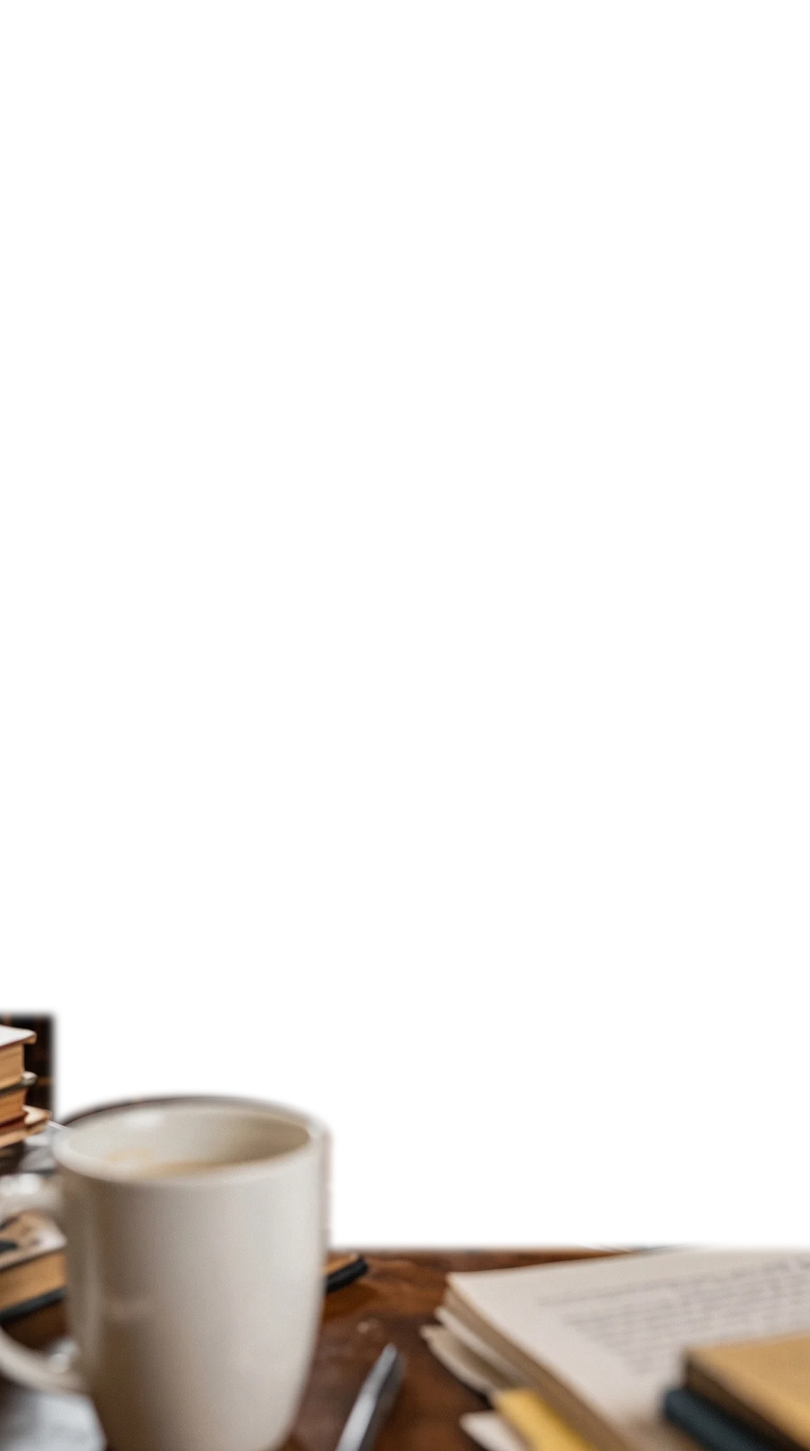
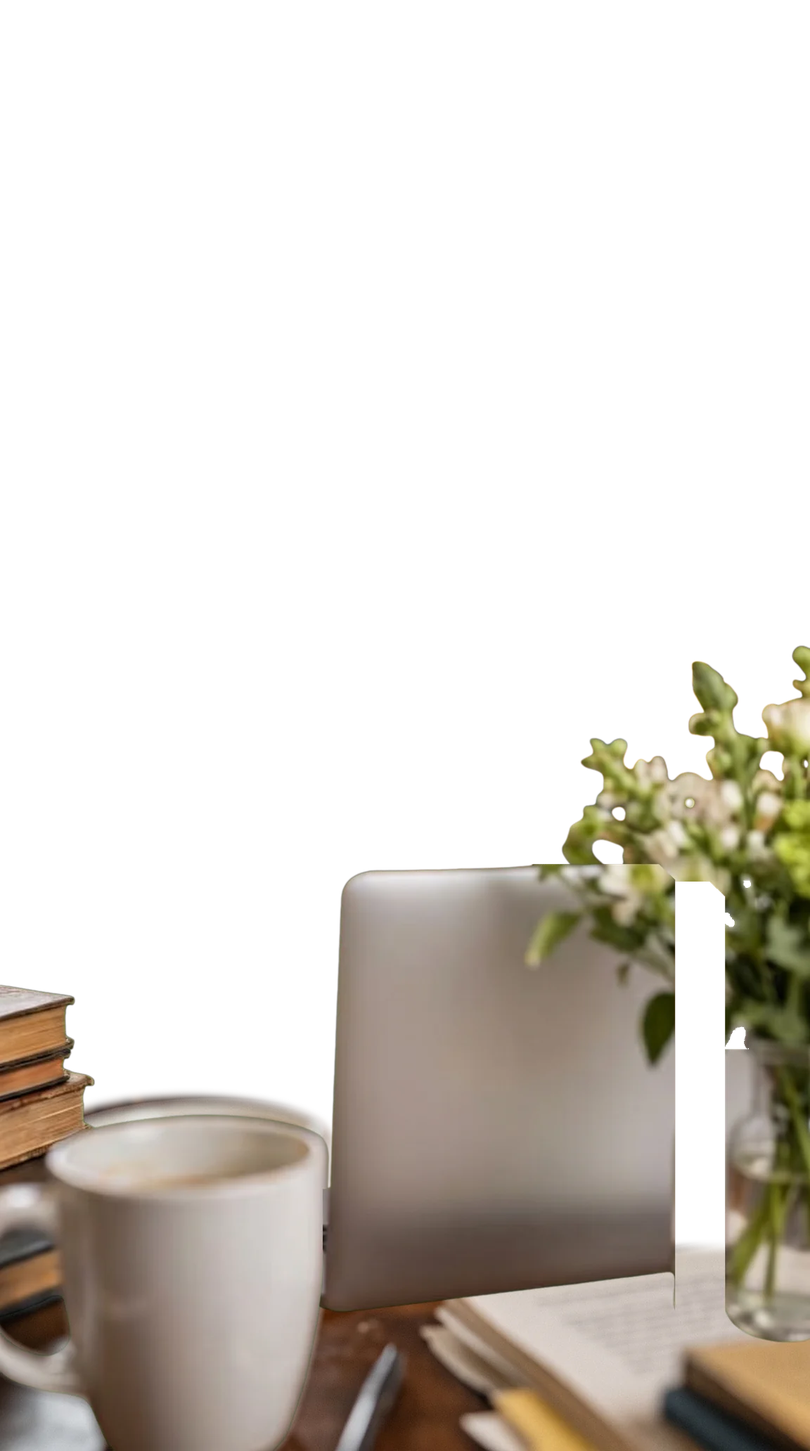
Ortam: önde dizüstü bilgisayar, çiçek ve kitaplar (gövde birleşme çizgisini örter)
Claude-Session: https://claude.ai/code/session_01VDWY4KKCKWwibUPrRpQSyT

Changed region(s): [[0.0, 0.4341, 1.0, 0.9302], [0.0938, 0.9612, 0.125, 0.9922], [0.0625, 0.9302, 0.0938, 0.9612]]

diff --git a/konuskan/goruntulu.js b/konuskan/goruntulu.js
@@ -580,7 +580,7 @@ ${ipucu ? `Context — the teacher had just said: "${ipucu}"\n` : ''}Return ONLY
        (Deniz taban fotoğrafında göz ortası kutunun %53,5/%40,8'inde, göz arası genişliğin %20,57'si).
        Katman kapları canvas'la aynı yerde/boyutta durur ve kamera kıpırtısı (vdKamera) animasyonu canvas'ınkine eşitlenir. */
     const ORTAM = {
-      'g-kutuphane': { yol: './assets/ortam/kutuphane/', W: 1536, H: 2752, goz: { x: 787.5, y: 1202, d: 205 },
+      'g-kutuphane': { yol: './assets/ortam/kutuphane/', v: 3, W: 1536, H: 2752, goz: { x: 787.5, y: 1202, d: 205 },
         lamba: [[249, 1080, 150], [1296, 1155, 170]], pencere: [0, 120, 470, 1330], video: [2.1, 12.8, 1531.9, 2723.4], buhar: { r: [2.1, 12.8, 1021.3, 2085], n: 128, kol: 16, w: 180, h: 368, fps: 15 } }
     };
     const TABAN_GOZ = { x: .535, y: .408, d: .2057 };
@@ -634,8 +634,8 @@ ${ipucu ? `Context — the teacher had just said: "${ipucu}"\n` : ''}Return ONLY
           };
           img.src = o.yol + 'buhar.jpg';
         } else bv.hidden = true;
-        ark.querySelector('.vd-ortam-govde').src = o.yol + 'govde.webp';
-        on.querySelector('.vd-ortam-onplan').src = o.yol + 'onplan.webp';
+        ark.querySelector('.vd-ortam-govde').src = o.yol + 'govde.webp?v=' + (o.v || 1);
+        on.querySelector('.vd-ortam-onplan').src = o.yol + 'onplan.webp?v=' + (o.v || 1);
         const p = o.pencere, pe = ark.querySelector('.vd-ortam-pencere');
         Object.assign(pe.style, { left: yuzde(p[0], o.W), top: yuzde(p[1], o.H), width: yuzde(p[2] - p[0], o.W), height: yuzde(p[3] - p[1], o.H) });
         ark.querySelector('.vd-ortam-tozlar').innerHTML = Array.from({ length: 9 }, (_, i) =>

diff --git a/sw.js b/sw.js
@@ -13,8 +13,8 @@
       indirilip bir sonraki açılışta devreye girer.
    4) Bildirim tıklama / push davranışı v3 ile aynı.
 */
-var SW_VERSION = "dh-sw-v656";  /* Ortam buharı video yerine kare tabakası (tuvale 15 fps): telefonda ikinci video kod çözücüsü takılıp buharı donduruyordu */
-/* onceki v655: ortam v2 */
+var SW_VERSION = "dh-sw-v657";  /* Ortam ön planı: dizüstü bilgisayar + çiçek + kitaplar (birleşme çizgisini örter) */
+/* onceki v656: buhar kare tabakası */
 /* onceki v592: 🏠 Ana sayfa Deniz'in planını gösterir; eski koç ikinci AI planı yapmaz (geri dönüş: dh-ana-plan=eski) */
 /* onceki v591: 🧭 Deniz müfredatta ilerletir */
 /* onceki v590: 🧩 Kalan ekranların cevapları Deniz'e: akıllı tekrar, YouTube, İngilizceyi Yaşa, sesli çalış, ders, sınavlar, öbek fiil, telaffuz */

diff --git a/konuskan.html b/konuskan.html
@@ -59,7 +59,7 @@
 <script src="./konuskan/google-asistan.js?v=4"></script>
 <script src="./konuskan/dh-piper.js?v=6"></script>
 <script src="./dh-ders-defteri.js?v=4"></script>
-<script src="./konuskan/goruntulu.js?v=106"></script>
+<script src="./konuskan/goruntulu.js?v=107"></script>
 <script src="./word-popup.js?v=tm3"></script>
 <script src="product-improvements.js?v=2"></script>
 </body>

diff --git a/CLAUDE.md b/CLAUDE.md
@@ -92,4 +92,4 @@ Her oturumun sonunda bu iki dosyayı güncel tut (sürüm numaraları, yapılanl
 - Android'de tarayıcı sesi perde/hız 1 değilse dil geçişlerinde 2–6 sn bekliyor; perde ve hız 1'de sabit.
 
 ## Şu anki sürümler (24 Kasım 2026)
-sw `dh-sw-v656` (buhar artık buhar.jpg kare tabakası 16x8=128 kare 180x368, tuvale setInterval 15 fps, plaka bölgesi [2.1,12.8,1021.3,2085]; telefonda buhar videosu donuyordu — muhtemelen kod çözücü sınırı) · v655 (ortam v2: goruntulu v105/css v48 — telefonda (max-aspect-ratio 4/5, sohbet kapalı) .vd-yuz plakaya göre yerleşir: left 16.56vw, top min(0, 100dvh-170px-179.17vw)+51.78vw, genişlik 64.88vw (kamera geride, masa+fincan görünür); buhar.mp4 = ilk Veo videosundan plakayla fark (siyah zemin) ayrı kap .vd-ortam-buhar mix-blend screen, Deniz'in ÖNÜNDE; ışık .vd-ortam-isikkap soft-light (karışım modu kapta, yoksa yalıtılır); gövde katmanı artık kutunun yalnız alt %7'sinde + kutu dışında (yaka/eller canvas'ta kalır)) · v654 (GERÇEK ORTAM: goruntulu.js v104 + css v47, Arka plan listesinde '✨ Kütüphane (gerçek ortam)' = fon 'g-kutuphane'; ORTAM tablosu {yol, W,H plaka pikseli, goz {x,y,d} sahnedeki adamın göz ortası ve göz arası, lamba, pencere, video [x,y,g,y]}; TABAN_GOZ {x:.535,y:.408,d:.2057} taban fotoğrafta; katmanlar: .vd-ortam-dolgu (bulanık) → .vd-ortam-ark (plaka.jpg + plaka.mp4 Veo döngü + pencere/toz/lamba CSS + govde.webp) → canvas → .vd-ortam-on (onplan.webp + soft-light ışık); kaplar canvas offset/transform'unu kopyalar, vdKamera animasyon zamanı canvas'la eşitlenir (250 ms); assets/ortam/kutuphane/; üretim: Gemini'de deniz-gri.png → 'aynı adam kütüphanede' → 'adamı kaldır' (plaka) → Veo dikey 9:16 (buharsız!), video plakada (2,13) 1532x2723; gövde maskesi rembg u2net_human_seg × kutu %70–80 rampa; ön plan elle çokgen; döngü son 36 kare çapraz geçiş; çalışma dosyaları qtest/ortam ve kullanıcının Downloads/dh-avatar/ortam) · v653 (ODAK MODU: dh-odak.js v1, auth-guard v20 her korumalı sayfaya ekler ve localStorage dh-odak-v1="1" ise html.dh-odak + gizleme stilini İLK ÇİZİMDEN önce koyar; gizlenen: .kk-alt/.kk-ust-menu/.kk-bosluk/.dh-primary-nav/.dh-app-nav/.dh-mobile-menu*/atlas süsleri; sol kenarda .dh-odak-tut ⛶ tutamaç → pano: Ana Sayfa / Menü ([data-kk-menu].click()) / Geri / Odak modundan çık; aç/kapat sayfayı yeniler (kk kaydırma düzgün kalsın); yüklü değilse ilk dokunuşta requestFullscreen (her sayfa geçişinde tarayıcı tam ekranı kapanır); kolay-kullanim v30: ODAK'ta çubuk yüksekliği 0, menü 'Görünüm'de data-kk-odak öğesi; teacher tam ekran exitFullscreen'i yalnız kendi açtıysa yapar (__tTamFsBiz); manifest bütün HTML'lere bağlandı, display standalone) · v652 (DERS DEFTERİ BULUTTA: dh-ders-defteri.js v4 → DHCloudSync.defter (cloud-sync v56: loadKoleksiyonSonra where guncel>son) users/{uid}/ders_defteri/{id}; değişiklik 4 sn sonra yazılır (bekleyen dh-defter-bekleyen-v1), açılışta artımlı çekiş (dh-defter-cek-v1), ilk açılışta bütün yerel defterler gönderilir (dh-defter-ilk-v1); SİLME artık var: DHDefter.sil → yerel + {silindi:true} işareti (dh-defter-silinen-v1), öbür cihazlar da siler; aynı cümle yeniden çalışılırsa silinmişlik kalkar; 900 KB üstü bulut kopyasında eski mesajlar kırpılır; DHDefter.sohbet(kim,metin): Deniz serbest sohbeti günlük 'Deniz sohbeti · <tarih>' defteri (tur:sohbet), etkin defteri değiştirmez; ders-defteri.html cloud-sync yükler, 🗑 Sil (confirm), sohbet kartında 'Deniz'le sohbet et'; goruntulu v103: üst çubukta 📒 data-a=defter → ders-defteri.html) · v651 (tam ekranda .explain-actions/.subject-play/.t-deniz gizli; html:not(.t-tam-acik) .t-tam-alt/.t-tam-cik display:none; çıkışta okuma durur + Duraklat gizlenir; fullscreenchange ile tarayıcı tam ekranından çıkınca kapanır) · v650 (öğretmen BEKLET/DEVAM: speakSegmentsSelf içinde _okumaKontrol {beklet: i=cur + cancel, devam: cancel+resume+aynı parçadan step}; speakFromScreen ikinci basış, Duraklat düğmesi ve tam ekran Bekle okumaCevir() kullanır; Android'de pause()/resume() sesi kaybediyordu) · v649 (networkFirst HTML'i fetch(url,{cache:'no-cache'}) ile ister: GitHub Pages max-age=600 yüzünden ?defter=1 gibi adresler eski kalıyordu) · teacher.html TAM EKRAN (⛶ #teacherTamBtn → html.t-tam-acik: sayfanın KENDİSİ tam ekran (üst çubuk, Menü, composer, araçlar gizli; canlı yüz .teacher-hero üstte fixed), altta #tTamAlt Söyle (=#explainListenBtn, yoksa son .qaListen) / Bekle (=dhTtsPauseBtn.onclick) / Dur (session++ + cancel); #tTamCik ✕ çıkar. OKUMA MANTIĞINA DOKUNULMADI (kullanıcı isteği; v647'deki ayrı okuyucu geri alındı). Test: sahte TTS SpeechSynthesis.prototype üzerine kurulmalı (ai-metin/dh-ses prototipi sarar)) · ders-defteri.html (📒 geçmiş: bütün defterler, arama, Öğretmende aç / Deniz'le çalış) · dh-ders-defteri.js v3 (KALICI ARŞİV IndexedDB dh-ders-defteri/defterler, id=kimlik(cumle), SİLME YOK; baslat yeni cümlede _bekliyor: arşivdeki eski kayıt birleştirilmeden arşive yazılmaz (yoksa eski konuşmalar ezilirdi), olay dh-defter-birlesti; listele/ac; etkin defter localStorage dh-ders-defteri-v1 {cumle,tr,aciklama,mesajlar[{kim Sen|Öğretmen|Deniz, metin, yer}]}; DHDefter.baslat/aciklama/ekle/al/konusulabilir(md→sesli satırlar, tablo satırı "Başlık: değer — …")) · teacher.html: .t-composer z-index 900 (eskiden 2147482000 idi, ayar/ses pencerelerinin Kapat düğmesini örtüyordu), pencere açıkken composer gizli, koyu alana dokun/Esc kapatır; başlıkta 📒 Defter; dh-defter-birlesti → eski soru-cevaplar .qa-gecmis ile; BOŞ açılır (excelveri ilk cümle kaldırıldı; boşken .subject hidden), ?defter=1 → defterGoster (açıklama + Öğretmen/Deniz etiketli soru-cevaplar, State.history bağlamı), renderExplanation/askFollowup deftere yazar, .t-tools telefonda ikişerli; başlık .t-ustbar (🎥 Deniz'le çalış #teacherDenizBtn, Ses, Ayar, Anahtar yazılı hap düğmeler; kolay görünüm etiketlemesin diye yazılı), telefonda fotoğraf 92px; her soru-cevapta .qaDeniz (denizeTasi({soru,cevap})); denizeTasi kurallar:getPrompt() de taşır → goruntulu sistem() analiz.kurallar'ı "TEACHER RULES" olarak ekler; FORMAT_KURALI + sistemPrompt() (kullanıcının talimatına EK: ## başlıklar + Markdown tablolar), tablosuz eski IndexedDB açıklaması yeniden üretilir, .dh-tablo stilleri; "🎥 Deniz'le sesli ve görüntülü çalış" (denizeTasi: localStorage dh-deniz-analiz {cumle,tr,src,ozet,t} → konuskan.html?deniz=analiz → konuskan.js startVideo(null,{ustte:true,analiz})); sohbet düzeni (#qaThread soru balonu sağda/cevap kartı solda, .t-composer altta position:fixed, #out padding-bottom 96px, araçlar .t-tools tek satır, askFollowup kutuyu temizler + scrollIntoView; test: Playwright serviceWorkers:"block" + auth-guard/cloud-sync stub, IIFE için route ile window.__t kancası) · cloud-sync.js v56 · auth-guard.js v20 · kolay-kullanim.js v30 · gemini-bridge.js t23 (markdown: tablo desteği .dh-tablo) · konuskan.js v33 (?deniz=analiz; cümle yoksa düz görüntülü ders) · ai-providers.js t41 · auth-guard.js v19 · koc.js v7 · dh-olay.js v4 · youtube-egitim.js v128 · youtube-pratik.js t37 · immersive.js t31 · dh-insights.js v4 · dh-fsrs.js v1 · learning-error-system.js v12 · assets/app.js tm3 · dh-deniz-telegram.js v3 · coach-bubble.js t44 (balonBosYer: balon düğme/seçenek ya da h1-h3/.word/.pron/.qprompt üstündeyse ekranda boş yer arar, yoksa 2,5 sn sonra kapanır) · koc-paneli/konuskan.html: dh-koc-kilavuz v3 · dh-koc-beyin v9 · dh-koc-deniz v8 ·  dh-koc-modu v5 · goruntulu.js v106 (📘 Öğretmen düğmesi HER derste (defter varsa ?defter=1); analiz.defter: defterdeki soru-cevaplar vd-devam-not + st.hist, metniOku() açıklamayı (ya da odak cevabı) KELİMESİ KELİMESİNE okur — yapay zekâ çağrısı yok, parçaların dili dilTahmin; sor() Sen/Deniz mesajlarını deftere yazar; üst çubukta 📘 data-a=ogretmen → teacher.html?defter=1; analiz.kurallar → sistem talimatına öğretmen kuralları; kullanıcı konuşmaya başlayınca (400 ms) HER dinlemede yuz.klip("not"), D.notAldi dinleme başında sıfırlanır (eskiden hiç sıfırlanmıyordu) (5,3 sn, not.webm: klipisle.py not 0.4 50 155); cevap hazırlanırken dusunZ 900 ms: yuz.klip dusun-a (%70, 2,5 sn) / dusun-b (4,1 sn); kullanıcı konuşurken dinlerkenOnay: en fazla 15 sn'de bir %35 olasılıkla yuz.klip("onay") (3,75 sn); JEST listesinde alkis: modele "gerçek başarıda son övgü parçasında" denir; Kaydettiklerim galeri+önizleme; Kaydettiklerim kv dh-fon-kayitli; Arka plan türü ayar.fonTur video|resim|fon; kv dh-fon-resim-<fon>; fon videosu net, Pexels, kv dh-fon-video-<fon>, Başka video) · goruntulu.css v46 (geniş ekranda sağa dayalı) · dh-canli-yuz.js v92 (konuşma başında (i===0) oynayan klip varsa bitmesini bekler (benim.klipBekledi, alkisBitti); tekrarsiz(): son 3 klip tekrar seçilmez; baş hareketi aralığı 9–26 sn; soru cümlesinde %60 one_egil; 140+ harfli cümlede kendiliğinden jest olasılığı düşük; yeni klipler dusun-a/-b, onay (/home/claude/qtest/klipisle.py <mp4> <ad> K A B: lm3 + kamera K takip + rembg + renk + 8/12 uç harman + kenar); dinlerken alkis-az* parçaları kullanıcı isteğiyle listeden ÇIKARILDI (dosyalar duruyor); yaklas.webm: Deniz kameraya eğilip döner (kullanıcının Veo videosu, Downloads/dh-avatar/bekle-veo.mp4), /home/claude/qtest/yaklas.py: her 2. karede face-api noktaları (lm3, bk-NNN), kamera yüzü %60 takip eder, kareler 15–140; sohbetin İLK konuşmasından önce tam oynar (acilisYapildi, sec.acilisKlip=false kapatır) ve konuşma bekler; beklerken listeye yaklas-az1..4 (yaklaşmanın %25/45/70/100ü ileri-geri, 16 fps); beklerken baş hareketlerinin her 3.sü (klip.basSay%3==0) ileri-geri: alkis-az1/2/3/alkis-az (alkışın ilk %6/9/12/15i) ya da sac-az1..4 (el kaldırmanın ilk %6..15i, /tmp/sacfix karelerinden), gidiş+2 bekleme+ters, 16 fps (%20 yavaş), sessiz; alkış ÖNCE: konusAkis sonraki() sıradaki parça alkisMi ise klipOynat("alkis") + alkisBitti() bekler, sonra okur (konuşma başına bir kez, benim.alkisti); alkış sesi: KLIP_SES.alkis el birleşme saniyeleri, alkisSesi() WebAudio gürültü patlaması doğrudan destination'a (çözümleyiciye değil, ağız oynamasın), sec.klipSes=false kapatır, sec.klipSesGuc 0.55; alkış: cümlede jest "alkis" ya da metinde övgü sözcüğü (harika|aferin|bravo|tebrik|mükemmel|süpersin|çok güzel|well done|excellent|great job|perfect) → alkis.webm klibi; alkis.webm Veo geniş kadrajdı: /home/claude/qtest/alkis_zoom.py ile kamera 1.6x geri çekilip dönüyor, uçlar fotoğrafa 8/12 kare harman; sac-duzelt.webm sonu: baş 3,4° eğikti, son 25 karede ECC ile yavaşça düzeltildi; klip.dondur 0,5 sn; sola dönüş bas-sol/-az/-orta.webm hazır, KLIP_SOL=true, sağ/sol sırayla; Veo sol videosu yavaştı: hareketli kısım 24 kareye sıkıştırıldı, ilk 6 harman karesi korunur; vid.py artık landmark anahtarı alır: vid.py sol-0; netlik: canvas ekran çözünürlüğü ≤2x + shader unsharp uK=0.7 sec.keskin; klip video DOMa 4px eklenir, currentTime 1 sn durursa bırak, 2 hatada kapat; klip: readyState beklemeden oynat, bekle 3 sn / oynatma süre+2,5 sn zaman aşımı — telefonda donma; bas-sag tam da %95te kesik: varyant.py <kareler> <önek> 17 24 30; bakış jestleri bakOne/bakAsagi/basYukari/basAsagi; kliplerde kenar_video.py ile beyaz hale temizliği; klip kareleri araclar/avatar/sabitle.py ile yüz ECC sabitleme; klipSonrasi: göz düz, bitişte notr kalır; kare hazır değilse son video karesi korunur) (kaş katsayıları 9/8/7) (bas-sag-az/orta/tam rastgele; klipler tabanla aynı ilk/son kare: araclar/avatar/uc.py mantığı; göz yaması eşikli tek yön) (baş çevirme Deniz 10 sn+ susunca, 12–20 sn arayla sağ/sol sırayla: `bas-sol/bas-sag.webm` klipleri, `api.klip(ad)`) (bakSol/bakSag/bakYukari/gez jestleri) (GORSEL_SURUM 20261127a; `sac-duzelt.webm` klibi dinlerken 40–90 sn arayla, `api.klip()`; face.json `bakis` göz yamaları + `gulme` duygusu) · dh-piper.js v6 · dh-piper-isci.js v3
+sw `dh-sw-v657` (ön plan v3: onplan.webp = eski masa/fincan + Gemini'nin eklediği dizüstü (arkası dönük, 1.04 ölçek, 110 px sola), çiçek vazosu (sağ), kitaplar; nesneler yeşil perdeden (kutuphane-yesil2.png) anahtarlandı, qtest/ortam/nesne_kur.py <k> <dx> <fdx>; govde/onplan adreslerine ?v=o.v (3) eklendi — SW önbelleği eski resmi vermesin) · v656 (buhar artık buhar.jpg kare tabakası 16x8=128 kare 180x368, tuvale setInterval 15 fps, plaka bölgesi [2.1,12.8,1021.3,2085]; telefonda buhar videosu donuyordu — muhtemelen kod çözücü sınırı) · v655 (ortam v2: goruntulu v105/css v48 — telefonda (max-aspect-ratio 4/5, sohbet kapalı) .vd-yuz plakaya göre yerleşir: left 16.56vw, top min(0, 100dvh-170px-179.17vw)+51.78vw, genişlik 64.88vw (kamera geride, masa+fincan görünür); buhar.mp4 = ilk Veo videosundan plakayla fark (siyah zemin) ayrı kap .vd-ortam-buhar mix-blend screen, Deniz'in ÖNÜNDE; ışık .vd-ortam-isikkap soft-light (karışım modu kapta, yoksa yalıtılır); gövde katmanı artık kutunun yalnız alt %7'sinde + kutu dışında (yaka/eller canvas'ta kalır)) · v654 (GERÇEK ORTAM: goruntulu.js v104 + css v47, Arka plan listesinde '✨ Kütüphane (gerçek ortam)' = fon 'g-kutuphane'; ORTAM tablosu {yol, W,H plaka pikseli, goz {x,y,d} sahnedeki adamın göz ortası ve göz arası, lamba, pencere, video [x,y,g,y]}; TABAN_GOZ {x:.535,y:.408,d:.2057} taban fotoğrafta; katmanlar: .vd-ortam-dolgu (bulanık) → .vd-ortam-ark (plaka.jpg + plaka.mp4 Veo döngü + pencere/toz/lamba CSS + govde.webp) → canvas → .vd-ortam-on (onplan.webp + soft-light ışık); kaplar canvas offset/transform'unu kopyalar, vdKamera animasyon zamanı canvas'la eşitlenir (250 ms); assets/ortam/kutuphane/; üretim: Gemini'de deniz-gri.png → 'aynı adam kütüphanede' → 'adamı kaldır' (plaka) → Veo dikey 9:16 (buharsız!), video plakada (2,13) 1532x2723; gövde maskesi rembg u2net_human_seg × kutu %70–80 rampa; ön plan elle çokgen; döngü son 36 kare çapraz geçiş; çalışma dosyaları qtest/ortam ve kullanıcının Downloads/dh-avatar/ortam) · v653 (ODAK MODU: dh-odak.js v1, auth-guard v20 her korumalı sayfaya ekler ve localStorage dh-odak-v1="1" ise html.dh-odak + gizleme stilini İLK ÇİZİMDEN önce koyar; gizlenen: .kk-alt/.kk-ust-menu/.kk-bosluk/.dh-primary-nav/.dh-app-nav/.dh-mobile-menu*/atlas süsleri; sol kenarda .dh-odak-tut ⛶ tutamaç → pano: Ana Sayfa / Menü ([data-kk-menu].click()) / Geri / Odak modundan çık; aç/kapat sayfayı yeniler (kk kaydırma düzgün kalsın); yüklü değilse ilk dokunuşta requestFullscreen (her sayfa geçişinde tarayıcı tam ekranı kapanır); kolay-kullanim v30: ODAK'ta çubuk yüksekliği 0, menü 'Görünüm'de data-kk-odak öğesi; teacher tam ekran exitFullscreen'i yalnız kendi açtıysa yapar (__tTamFsBiz); manifest bütün HTML'lere bağlandı, display standalone) · v652 (DERS DEFTERİ BULUTTA: dh-ders-defteri.js v4 → DHCloudSync.defter (cloud-sync v56: loadKoleksiyonSonra where guncel>son) users/{uid}/ders_defteri/{id}; değişiklik 4 sn sonra yazılır (bekleyen dh-defter-bekleyen-v1), açılışta artımlı çekiş (dh-defter-cek-v1), ilk açılışta bütün yerel defterler gönderilir (dh-defter-ilk-v1); SİLME artık var: DHDefter.sil → yerel + {silindi:true} işareti (dh-defter-silinen-v1), öbür cihazlar da siler; aynı cümle yeniden çalışılırsa silinmişlik kalkar; 900 KB üstü bulut kopyasında eski mesajlar kırpılır; DHDefter.sohbet(kim,metin): Deniz serbest sohbeti günlük 'Deniz sohbeti · <tarih>' defteri (tur:sohbet), etkin defteri değiştirmez; ders-defteri.html cloud-sync yükler, 🗑 Sil (confirm), sohbet kartında 'Deniz'le sohbet et'; goruntulu v103: üst çubukta 📒 data-a=defter → ders-defteri.html) · v651 (tam ekranda .explain-actions/.subject-play/.t-deniz gizli; html:not(.t-tam-acik) .t-tam-alt/.t-tam-cik display:none; çıkışta okuma durur + Duraklat gizlenir; fullscreenchange ile tarayıcı tam ekranından çıkınca kapanır) · v650 (öğretmen BEKLET/DEVAM: speakSegmentsSelf içinde _okumaKontrol {beklet: i=cur + cancel, devam: cancel+resume+aynı parçadan step}; speakFromScreen ikinci basış, Duraklat düğmesi ve tam ekran Bekle okumaCevir() kullanır; Android'de pause()/resume() sesi kaybediyordu) · v649 (networkFirst HTML'i fetch(url,{cache:'no-cache'}) ile ister: GitHub Pages max-age=600 yüzünden ?defter=1 gibi adresler eski kalıyordu) · teacher.html TAM EKRAN (⛶ #teacherTamBtn → html.t-tam-acik: sayfanın KENDİSİ tam ekran (üst çubuk, Menü, composer, araçlar gizli; canlı yüz .teacher-hero üstte fixed), altta #tTamAlt Söyle (=#explainListenBtn, yoksa son .qaListen) / Bekle (=dhTtsPauseBtn.onclick) / Dur (session++ + cancel); #tTamCik ✕ çıkar. OKUMA MANTIĞINA DOKUNULMADI (kullanıcı isteği; v647'deki ayrı okuyucu geri alındı). Test: sahte TTS SpeechSynthesis.prototype üzerine kurulmalı (ai-metin/dh-ses prototipi sarar)) · ders-defteri.html (📒 geçmiş: bütün defterler, arama, Öğretmende aç / Deniz'le çalış) · dh-ders-defteri.js v3 (KALICI ARŞİV IndexedDB dh-ders-defteri/defterler, id=kimlik(cumle), SİLME YOK; baslat yeni cümlede _bekliyor: arşivdeki eski kayıt birleştirilmeden arşive yazılmaz (yoksa eski konuşmalar ezilirdi), olay dh-defter-birlesti; listele/ac; etkin defter localStorage dh-ders-defteri-v1 {cumle,tr,aciklama,mesajlar[{kim Sen|Öğretmen|Deniz, metin, yer}]}; DHDefter.baslat/aciklama/ekle/al/konusulabilir(md→sesli satırlar, tablo satırı "Başlık: değer — …")) · teacher.html: .t-composer z-index 900 (eskiden 2147482000 idi, ayar/ses pencerelerinin Kapat düğmesini örtüyordu), pencere açıkken composer gizli, koyu alana dokun/Esc kapatır; başlıkta 📒 Defter; dh-defter-birlesti → eski soru-cevaplar .qa-gecmis ile; BOŞ açılır (excelveri ilk cümle kaldırıldı; boşken .subject hidden), ?defter=1 → defterGoster (açıklama + Öğretmen/Deniz etiketli soru-cevaplar, State.history bağlamı), renderExplanation/askFollowup deftere yazar, .t-tools telefonda ikişerli; başlık .t-ustbar (🎥 Deniz'le çalış #teacherDenizBtn, Ses, Ayar, Anahtar yazılı hap düğmeler; kolay görünüm etiketlemesin diye yazılı), telefonda fotoğraf 92px; her soru-cevapta .qaDeniz (denizeTasi({soru,cevap})); denizeTasi kurallar:getPrompt() de taşır → goruntulu sistem() analiz.kurallar'ı "TEACHER RULES" olarak ekler; FORMAT_KURALI + sistemPrompt() (kullanıcının talimatına EK: ## başlıklar + Markdown tablolar), tablosuz eski IndexedDB açıklaması yeniden üretilir, .dh-tablo stilleri; "🎥 Deniz'le sesli ve görüntülü çalış" (denizeTasi: localStorage dh-deniz-analiz {cumle,tr,src,ozet,t} → konuskan.html?deniz=analiz → konuskan.js startVideo(null,{ustte:true,analiz})); sohbet düzeni (#qaThread soru balonu sağda/cevap kartı solda, .t-composer altta position:fixed, #out padding-bottom 96px, araçlar .t-tools tek satır, askFollowup kutuyu temizler + scrollIntoView; test: Playwright serviceWorkers:"block" + auth-guard/cloud-sync stub, IIFE için route ile window.__t kancası) · cloud-sync.js v56 · auth-guard.js v20 · kolay-kullanim.js v30 · gemini-bridge.js t23 (markdown: tablo desteği .dh-tablo) · konuskan.js v33 (?deniz=analiz; cümle yoksa düz görüntülü ders) · ai-providers.js t41 · auth-guard.js v19 · koc.js v7 · dh-olay.js v4 · youtube-egitim.js v128 · youtube-pratik.js t37 · immersive.js t31 · dh-insights.js v4 · dh-fsrs.js v1 · learning-error-system.js v12 · assets/app.js tm3 · dh-deniz-telegram.js v3 · coach-bubble.js t44 (balonBosYer: balon düğme/seçenek ya da h1-h3/.word/.pron/.qprompt üstündeyse ekranda boş yer arar, yoksa 2,5 sn sonra kapanır) · koc-paneli/konuskan.html: dh-koc-kilavuz v3 · dh-koc-beyin v9 · dh-koc-deniz v8 ·  dh-koc-modu v5 · goruntulu.js v107 (📘 Öğretmen düğmesi HER derste (defter varsa ?defter=1); analiz.defter: defterdeki soru-cevaplar vd-devam-not + st.hist, metniOku() açıklamayı (ya da odak cevabı) KELİMESİ KELİMESİNE okur — yapay zekâ çağrısı yok, parçaların dili dilTahmin; sor() Sen/Deniz mesajlarını deftere yazar; üst çubukta 📘 data-a=ogretmen → teacher.html?defter=1; analiz.kurallar → sistem talimatına öğretmen kuralları; kullanıcı konuşmaya başlayınca (400 ms) HER dinlemede yuz.klip("not"), D.notAldi dinleme başında sıfırlanır (eskiden hiç sıfırlanmıyordu) (5,3 sn, not.webm: klipisle.py not 0.4 50 155); cevap hazırlanırken dusunZ 900 ms: yuz.klip dusun-a (%70, 2,5 sn) / dusun-b (4,1 sn); kullanıcı konuşurken dinlerkenOnay: en fazla 15 sn'de bir %35 olasılıkla yuz.klip("onay") (3,75 sn); JEST listesinde alkis: modele "gerçek başarıda son övgü parçasında" denir; Kaydettiklerim galeri+önizleme; Kaydettiklerim kv dh-fon-kayitli; Arka plan türü ayar.fonTur video|resim|fon; kv dh-fon-resim-<fon>; fon videosu net, Pexels, kv dh-fon-video-<fon>, Başka video) · goruntulu.css v46 (geniş ekranda sağa dayalı) · dh-canli-yuz.js v92 (konuşma başında (i===0) oynayan klip varsa bitmesini bekler (benim.klipBekledi, alkisBitti); tekrarsiz(): son 3 klip tekrar seçilmez; baş hareketi aralığı 9–26 sn; soru cümlesinde %60 one_egil; 140+ harfli cümlede kendiliğinden jest olasılığı düşük; yeni klipler dusun-a/-b, onay (/home/claude/qtest/klipisle.py <mp4> <ad> K A B: lm3 + kamera K takip + rembg + renk + 8/12 uç harman + kenar); dinlerken alkis-az* parçaları kullanıcı isteğiyle listeden ÇIKARILDI (dosyalar duruyor); yaklas.webm: Deniz kameraya eğilip döner (kullanıcının Veo videosu, Downloads/dh-avatar/bekle-veo.mp4), /home/claude/qtest/yaklas.py: her 2. karede face-api noktaları (lm3, bk-NNN), kamera yüzü %60 takip eder, kareler 15–140; sohbetin İLK konuşmasından önce tam oynar (acilisYapildi, sec.acilisKlip=false kapatır) ve konuşma bekler; beklerken listeye yaklas-az1..4 (yaklaşmanın %25/45/70/100ü ileri-geri, 16 fps); beklerken baş hareketlerinin her 3.sü (klip.basSay%3==0) ileri-geri: alkis-az1/2/3/alkis-az (alkışın ilk %6/9/12/15i) ya da sac-az1..4 (el kaldırmanın ilk %6..15i, /tmp/sacfix karelerinden), gidiş+2 bekleme+ters, 16 fps (%20 yavaş), sessiz; alkış ÖNCE: konusAkis sonraki() sıradaki parça alkisMi ise klipOynat("alkis") + alkisBitti() bekler, sonra okur (konuşma başına bir kez, benim.alkisti); alkış sesi: KLIP_SES.alkis el birleşme saniyeleri, alkisSesi() WebAudio gürültü patlaması doğrudan destination'a (çözümleyiciye değil, ağız oynamasın), sec.klipSes=false kapatır, sec.klipSesGuc 0.55; alkış: cümlede jest "alkis" ya da metinde övgü sözcüğü (harika|aferin|bravo|tebrik|mükemmel|süpersin|çok güzel|well done|excellent|great job|perfect) → alkis.webm klibi; alkis.webm Veo geniş kadrajdı: /home/claude/qtest/alkis_zoom.py ile kamera 1.6x geri çekilip dönüyor, uçlar fotoğrafa 8/12 kare harman; sac-duzelt.webm sonu: baş 3,4° eğikti, son 25 karede ECC ile yavaşça düzeltildi; klip.dondur 0,5 sn; sola dönüş bas-sol/-az/-orta.webm hazır, KLIP_SOL=true, sağ/sol sırayla; Veo sol videosu yavaştı: hareketli kısım 24 kareye sıkıştırıldı, ilk 6 harman karesi korunur; vid.py artık landmark anahtarı alır: vid.py sol-0; netlik: canvas ekran çözünürlüğü ≤2x + shader unsharp uK=0.7 sec.keskin; klip video DOMa 4px eklenir, currentTime 1 sn durursa bırak, 2 hatada kapat; klip: readyState beklemeden oynat, bekle 3 sn / oynatma süre+2,5 sn zaman aşımı — telefonda donma; bas-sag tam da %95te kesik: varyant.py <kareler> <önek> 17 24 30; bakış jestleri bakOne/bakAsagi/basYukari/basAsagi; kliplerde kenar_video.py ile beyaz hale temizliği; klip kareleri araclar/avatar/sabitle.py ile yüz ECC sabitleme; klipSonrasi: göz düz, bitişte notr kalır; kare hazır değilse son video karesi korunur) (kaş katsayıları 9/8/7) (bas-sag-az/orta/tam rastgele; klipler tabanla aynı ilk/son kare: araclar/avatar/uc.py mantığı; göz yaması eşikli tek yön) (baş çevirme Deniz 10 sn+ susunca, 12–20 sn arayla sağ/sol sırayla: `bas-sol/bas-sag.webm` klipleri, `api.klip(ad)`) (bakSol/bakSag/bakYukari/gez jestleri) (GORSEL_SURUM 20261127a; `sac-duzelt.webm` klibi dinlerken 40–90 sn arayla, `api.klip()`; face.json `bakis` göz yamaları + `gulme` duygusu) · dh-piper.js v6 · dh-piper-isci.js v3
